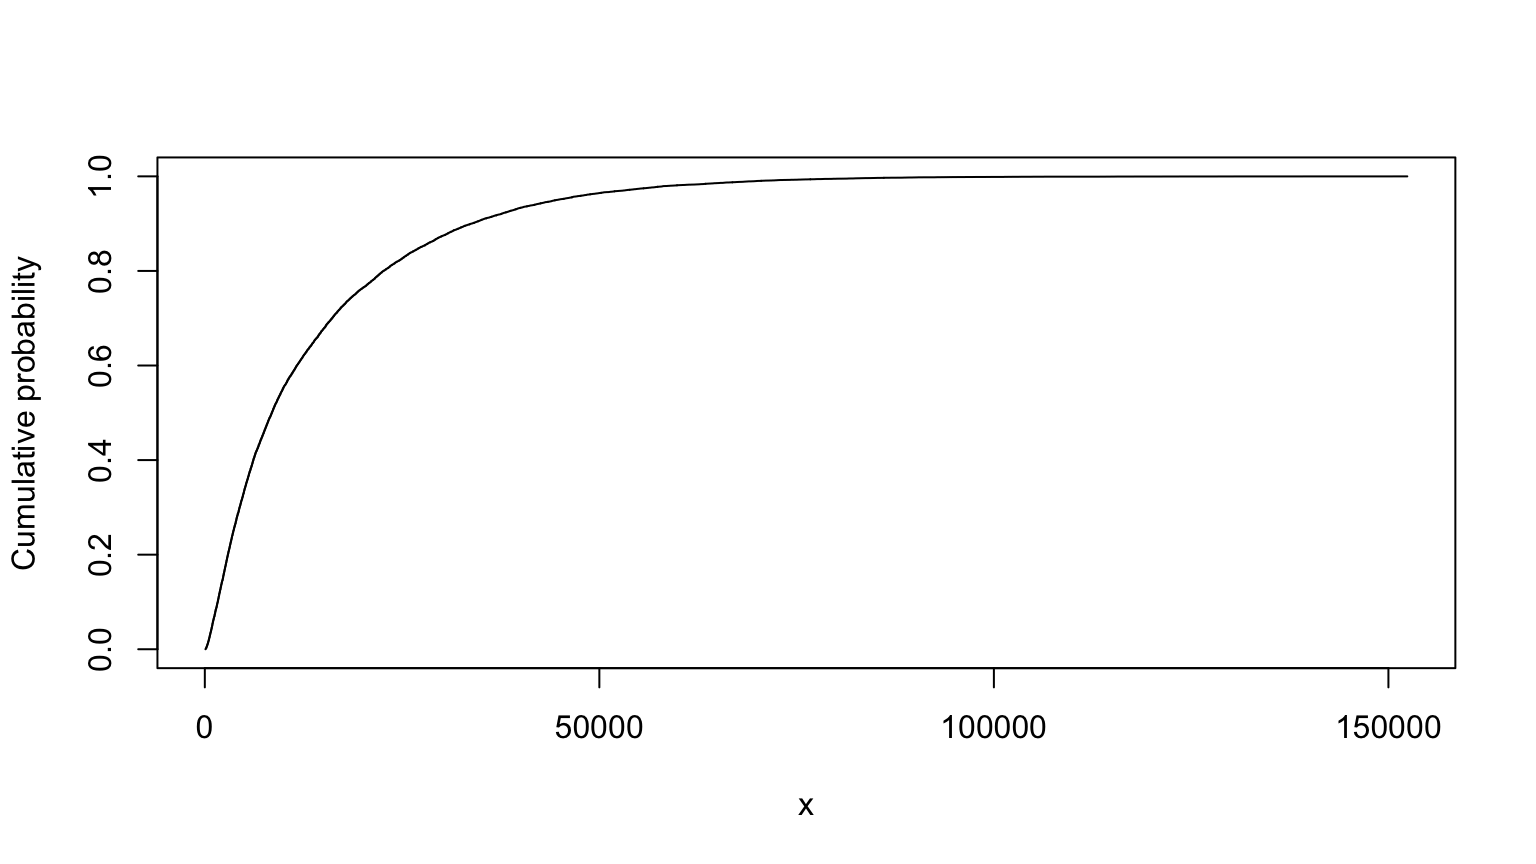
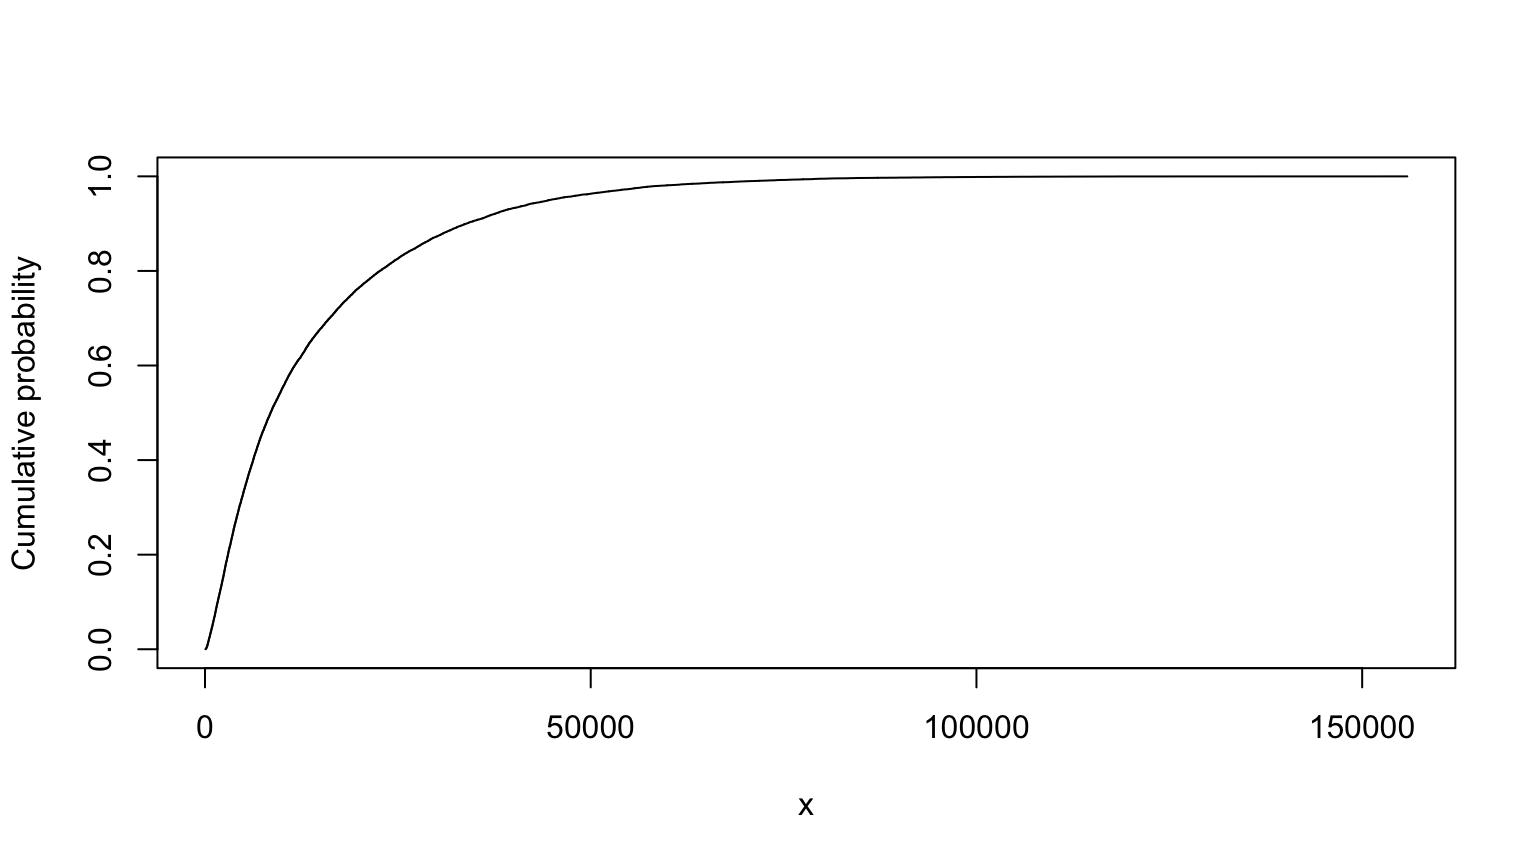
build_analysis_site() for release 1.1.2

diff --git a/docs/workshop.html b/docs/workshop.html
@@ -20,9 +20,9 @@
 <meta name="viewport" content="width=device-width, initial-scale=1, shrink-to-fit=no" />
 <link href="site_libs/bootstrap-5.3.1/bootstrap.min.css" rel="stylesheet" />
 <script src="site_libs/bootstrap-5.3.1/bootstrap.bundle.min.js"></script>
-<script src="site_libs/bs3compat-0.6.0/transition.js"></script>
-<script src="site_libs/bs3compat-0.6.0/tabs.js"></script>
-<script src="site_libs/bs3compat-0.6.0/bs3compat.js"></script>
+<script src="site_libs/bs3compat-0.6.1/transition.js"></script>
+<script src="site_libs/bs3compat-0.6.1/tabs.js"></script>
+<script src="site_libs/bs3compat-0.6.1/bs3compat.js"></script>
 <script src="site_libs/jqueryui-1.13.2/jquery-ui.min.js"></script>
 <link href="site_libs/tocify-1.9.1/jquery.tocify.css" rel="stylesheet" />
 <script src="site_libs/tocify-1.9.1/jquery.tocify.js"></script>
@@ -425,25 +425,25 @@ T &lt;- (n + BD * foc * Koc) * L / (K * i) # all variables assumed independent
 summary(T)</code></pre>
 <pre><code>## 
 ## Monte Carlo distribution summary
-##   Mean: 13064.94
-##   Variance: 251170274
-##   Std Deviation: 15848.35
-##   Width of interquartile range: 13022.85
-##   Width of overall range: 402670
+##   Mean: 13016.88
+##   Variance: 244394818
+##   Std Deviation: 15633.13
+##   Width of interquartile range: 12734.8
+##   Width of overall range: 326888.6
 ##   Order statistics
-##      Left (min) value: -1817.18
-##      1st percentile: 342.6697
-##      5th percentile: 945.5704
-##      25th percentile: 3658.009
-##      Median (50th%ile): 8204.668
-##      75th percentile: 16680.86
-##      95th percentile: 40771.09
-##      99th percentile: 74889.93
-##      Right (max) value: 400852.9
+##      Left (min) value: -2298.849
+##      1st percentile: 330.3775
+##      5th percentile: 926.5227
+##      25th percentile: 3686.748
+##      Median (50th%ile): 8227.18
+##      75th percentile: 16421.55
+##      95th percentile: 40731.7
+##      99th percentile: 73680.41
+##      Right (max) value: 324589.7
 ##   Replications: 20000</code></pre>
 <pre class="r"><code>T</code></pre>
 <p><img src="workshop_files/figure-html/T-1.png" width="768" /></p>
-<pre><code>## MC (min=-1817.18028161169, median=8204.66756431583, mean=13064.9362881413, max=400852.859353715)</code></pre>
+<pre><code>## MC (min=-2298.84876008402, median=8227.17969119541, mean=13016.8797008183, max=324589.72115674)</code></pre>
 <pre class="r"><code># nolint end</code></pre>
 <p>Truncated version, from slide 40:</p>
 <pre class="r"><code># nolint start
@@ -463,25 +463,25 @@ T &lt;- (n + BD * foc * Koc) * L / (K * i)
 summary(T)</code></pre>
 <pre><code>## 
 ## Monte Carlo distribution summary
-##   Mean: 12116.88
-##   Variance: 159619528
-##   Std Deviation: 12634.06
-##   Width of interquartile range: 12103.47
-##   Width of overall range: 143162.6
+##   Mean: 12516.38
+##   Variance: 167652178
+##   Std Deviation: 12948.06
+##   Width of interquartile range: 12739.36
+##   Width of overall range: 138136.8
 ##   Order statistics
-##      Left (min) value: 77.44617
-##      1st percentile: 385.4191
-##      5th percentile: 1011.753
-##      25th percentile: 3806.835
-##      Median (50th%ile): 8127.142
-##      75th percentile: 15910.3
-##      95th percentile: 36867.15
-##      99th percentile: 60535.29
-##      Right (max) value: 143240.1
+##      Left (min) value: 69.7553
+##      1st percentile: 396.0509
+##      5th percentile: 1009.134
+##      25th percentile: 3854.549
+##      Median (50th%ile): 8396.996
+##      75th percentile: 16593.9
+##      95th percentile: 38382.96
+##      99th percentile: 62002.42
+##      Right (max) value: 138206.6
 ##   Replications: 20000</code></pre>
 <pre class="r"><code>T</code></pre>
 <p><img src="workshop_files/figure-html/T_truncated-1.png" width="768" /></p>
-<pre><code>## MC (min=77.446171756803, median=8127.14236707081, mean=12116.883244746, max=143240.058972854)</code></pre>
+<pre><code>## MC (min=69.7552977446899, median=8396.99640937742, mean=12516.3828351459, max=138206.568032138)</code></pre>
 <pre class="r"><code># nolint end</code></pre>
 <p>Maximum entropy version, from slide 70:</p>
 <p>T and Tind are pretty similar. In this case, the maximum entropy
@@ -500,25 +500,25 @@ Tind &lt;- (n + BD * foc * Koc) * L / (K * i)
 summary(Tind)</code></pre>
 <pre><code>## 
 ## Monte Carlo distribution summary
-##   Mean: 13936.78
-##   Variance: 226720330
-##   Std Deviation: 15057.24
-##   Width of interquartile range: 15381
-##   Width of overall range: 152304.4
+##   Mean: 13977.06
+##   Variance: 228384562
+##   Std Deviation: 15112.4
+##   Width of interquartile range: 15357.94
+##   Width of overall range: 155782.4
 ##   Order statistics
-##      Left (min) value: 87.37668
-##      1st percentile: 343.9891
-##      5th percentile: 940.5634
-##      25th percentile: 3630.485
-##      Median (50th%ile): 8498.027
-##      75th percentile: 19011.49
-##      95th percentile: 44548.86
-##      99th percentile: 69859.49
-##      Right (max) value: 152391.7
+##      Left (min) value: 65.86058
+##      1st percentile: 345.2083
+##      5th percentile: 966.4084
+##      25th percentile: 3680.107
+##      Median (50th%ile): 8499.212
+##      75th percentile: 19038.04
+##      95th percentile: 44649.06
+##      99th percentile: 70758.6
+##      Right (max) value: 155848.2
 ##   Replications: 20000</code></pre>
 <pre class="r"><code>Tind</code></pre>
 <p><img src="workshop_files/figure-html/Tind-1.png" width="768" /></p>
-<pre><code>## MC (min=87.3766783481608, median=8498.02655446792, mean=13936.7817381817, max=152391.735777355)</code></pre>
+<pre><code>## MC (min=65.8605846310739, median=8499.21171271512, mean=13977.0626967044, max=155848.246647373)</code></pre>
 <pre class="r"><code># nolint end</code></pre>
 </div>
 <div id="probability-bounds-analysis" class="section level1">

diff --git a/docs/news/index.html b/docs/news/index.html
@@ -10,7 +10,7 @@
     
     <a class="navbar-brand me-2" href="../index.html">workshop7</a>
 
-    <small class="nav-text text-muted me-auto" data-bs-toggle="tooltip" data-bs-placement="bottom" title="">1.1.1</small>
+    <small class="nav-text text-muted me-auto" data-bs-toggle="tooltip" data-bs-placement="bottom" title="">1.1.2</small>
 
     
     <button class="navbar-toggler" type="button" data-bs-toggle="collapse" data-bs-target="#navbar" aria-controls="navbar" aria-expanded="false" aria-label="Toggle navigation">
@@ -51,6 +51,10 @@
       <small>Source: <a href="https://github.com/jabenninghoff/workshop7/blob/HEAD/NEWS.md" class="external-link"><code>NEWS.md</code></a></small>
     </div>
 
+    <div class="section level2">
+<h2 class="pkg-version" data-toc-text="1.1.2" id="workshop7-112">workshop7 1.1.2<a class="anchor" aria-label="anchor" href="#workshop7-112"></a></h2>
+<ul><li>Maintenance updates</li>
+</ul></div>
     <div class="section level2">
 <h2 class="pkg-version" data-toc-text="1.1.1" id="workshop7-111">workshop7 1.1.1<a class="anchor" aria-label="anchor" href="#workshop7-111"></a></h2>
 <ul><li>Fix site rendering</li>

diff --git a/docs/authors.html b/docs/authors.html
@@ -10,7 +10,7 @@
     
     <a class="navbar-brand me-2" href="index.html">workshop7</a>
 
-    <small class="nav-text text-muted me-auto" data-bs-toggle="tooltip" data-bs-placement="bottom" title="">1.1.1</small>
+    <small class="nav-text text-muted me-auto" data-bs-toggle="tooltip" data-bs-placement="bottom" title="">1.1.2</small>
 
     
     <button class="navbar-toggler" type="button" data-bs-toggle="collapse" data-bs-target="#navbar" aria-controls="navbar" aria-expanded="false" aria-label="Toggle navigation">
@@ -65,14 +65,14 @@
 
       <p>Benninghoff J (2023).
 <em>workshop7: SRA 2021 Workshop 7</em>.
-R package version 1.1.1, 
+R package version 1.1.2, 
 https://github.com/jabenninghoff/workshop7, <a href="https://jabenninghoff.github.io/workshop7/">https://jabenninghoff.github.io/workshop7/</a>. 
 </p>
       <pre>@Manual{,
   title = {workshop7: SRA 2021 Workshop 7},
   author = {John Benninghoff},
   year = {2023},
-  note = {R package version 1.1.1, 
+  note = {R package version 1.1.2, 
 https://github.com/jabenninghoff/workshop7},
   url = {https://jabenninghoff.github.io/workshop7/},
 }</pre>

diff --git a/docs/workshop-notes.html b/docs/workshop-notes.html
@@ -20,9 +20,9 @@
 <meta name="viewport" content="width=device-width, initial-scale=1, shrink-to-fit=no" />
 <link href="site_libs/bootstrap-5.3.1/bootstrap.min.css" rel="stylesheet" />
 <script src="site_libs/bootstrap-5.3.1/bootstrap.bundle.min.js"></script>
-<script src="site_libs/bs3compat-0.6.0/transition.js"></script>
-<script src="site_libs/bs3compat-0.6.0/tabs.js"></script>
-<script src="site_libs/bs3compat-0.6.0/bs3compat.js"></script>
+<script src="site_libs/bs3compat-0.6.1/transition.js"></script>
+<script src="site_libs/bs3compat-0.6.1/tabs.js"></script>
+<script src="site_libs/bs3compat-0.6.1/bs3compat.js"></script>
 <script src="site_libs/jqueryui-1.13.2/jquery-ui.min.js"></script>
 <link href="site_libs/tocify-1.9.1/jquery.tocify.css" rel="stylesheet" />
 <script src="site_libs/tocify-1.9.1/jquery.tocify.js"></script>

diff --git a/docs/404.html b/docs/404.html
@@ -25,7 +25,7 @@
     
     <a class="navbar-brand me-2" href="https://jabenninghoff.github.io/workshop7/index.html">workshop7</a>
 
-    <small class="nav-text text-muted me-auto" data-bs-toggle="tooltip" data-bs-placement="bottom" title="">1.1.1</small>
+    <small class="nav-text text-muted me-auto" data-bs-toggle="tooltip" data-bs-placement="bottom" title="">1.1.2</small>
 
     
     <button class="navbar-toggler" type="button" data-bs-toggle="collapse" data-bs-target="#navbar" aria-controls="navbar" aria-expanded="false" aria-label="Toggle navigation">

diff --git a/docs/reference/index.html b/docs/reference/index.html
@@ -10,7 +10,7 @@
     
     <a class="navbar-brand me-2" href="../index.html">workshop7</a>
 
-    <small class="nav-text text-muted me-auto" data-bs-toggle="tooltip" data-bs-placement="bottom" title="">1.1.1</small>
+    <small class="nav-text text-muted me-auto" data-bs-toggle="tooltip" data-bs-placement="bottom" title="">1.1.2</small>
 
     
     <button class="navbar-toggler" type="button" data-bs-toggle="collapse" data-bs-target="#navbar" aria-controls="navbar" aria-expanded="false" aria-label="Toggle navigation">

diff --git a/docs/reference/workshop7-package.html b/docs/reference/workshop7-package.html
@@ -10,7 +10,7 @@
     
     <a class="navbar-brand me-2" href="../index.html">workshop7</a>
 
-    <small class="nav-text text-muted me-auto" data-bs-toggle="tooltip" data-bs-placement="bottom" title="">1.1.1</small>
+    <small class="nav-text text-muted me-auto" data-bs-toggle="tooltip" data-bs-placement="bottom" title="">1.1.2</small>
 
     
     <button class="navbar-toggler" type="button" data-bs-toggle="collapse" data-bs-target="#navbar" aria-controls="navbar" aria-expanded="false" aria-label="Toggle navigation">

diff --git a/docs/LICENSE-text.html b/docs/LICENSE-text.html
@@ -10,7 +10,7 @@
     
     <a class="navbar-brand me-2" href="index.html">workshop7</a>
 
-    <small class="nav-text text-muted me-auto" data-bs-toggle="tooltip" data-bs-placement="bottom" title="">1.1.1</small>
+    <small class="nav-text text-muted me-auto" data-bs-toggle="tooltip" data-bs-placement="bottom" title="">1.1.2</small>
 
     
     <button class="navbar-toggler" type="button" data-bs-toggle="collapse" data-bs-target="#navbar" aria-controls="navbar" aria-expanded="false" aria-label="Toggle navigation">

diff --git a/docs/LICENSE.html b/docs/LICENSE.html
@@ -10,7 +10,7 @@
     
     <a class="navbar-brand me-2" href="index.html">workshop7</a>
 
-    <small class="nav-text text-muted me-auto" data-bs-toggle="tooltip" data-bs-placement="bottom" title="">1.1.1</small>
+    <small class="nav-text text-muted me-auto" data-bs-toggle="tooltip" data-bs-placement="bottom" title="">1.1.2</small>
 
     
     <button class="navbar-toggler" type="button" data-bs-toggle="collapse" data-bs-target="#navbar" aria-controls="navbar" aria-expanded="false" aria-label="Toggle navigation">

diff --git a/docs/TODO.html b/docs/TODO.html
@@ -10,7 +10,7 @@
     
     <a class="navbar-brand me-2" href="index.html">workshop7</a>
 
-    <small class="nav-text text-muted me-auto" data-bs-toggle="tooltip" data-bs-placement="bottom" title="">1.1.1</small>
+    <small class="nav-text text-muted me-auto" data-bs-toggle="tooltip" data-bs-placement="bottom" title="">1.1.2</small>
 
     
     <button class="navbar-toggler" type="button" data-bs-toggle="collapse" data-bs-target="#navbar" aria-controls="navbar" aria-expanded="false" aria-label="Toggle navigation">

diff --git a/docs/index.html b/docs/index.html
@@ -29,7 +29,7 @@
     
     <a class="navbar-brand me-2" href="index.html">workshop7</a>
 
-    <small class="nav-text text-muted me-auto" data-bs-toggle="tooltip" data-bs-placement="bottom" title="">1.1.1</small>
+    <small class="nav-text text-muted me-auto" data-bs-toggle="tooltip" data-bs-placement="bottom" title="">1.1.2</small>
 
     
     <button class="navbar-toggler" type="button" data-bs-toggle="collapse" data-bs-target="#navbar" aria-controls="navbar" aria-expanded="false" aria-label="Toggle navigation">
